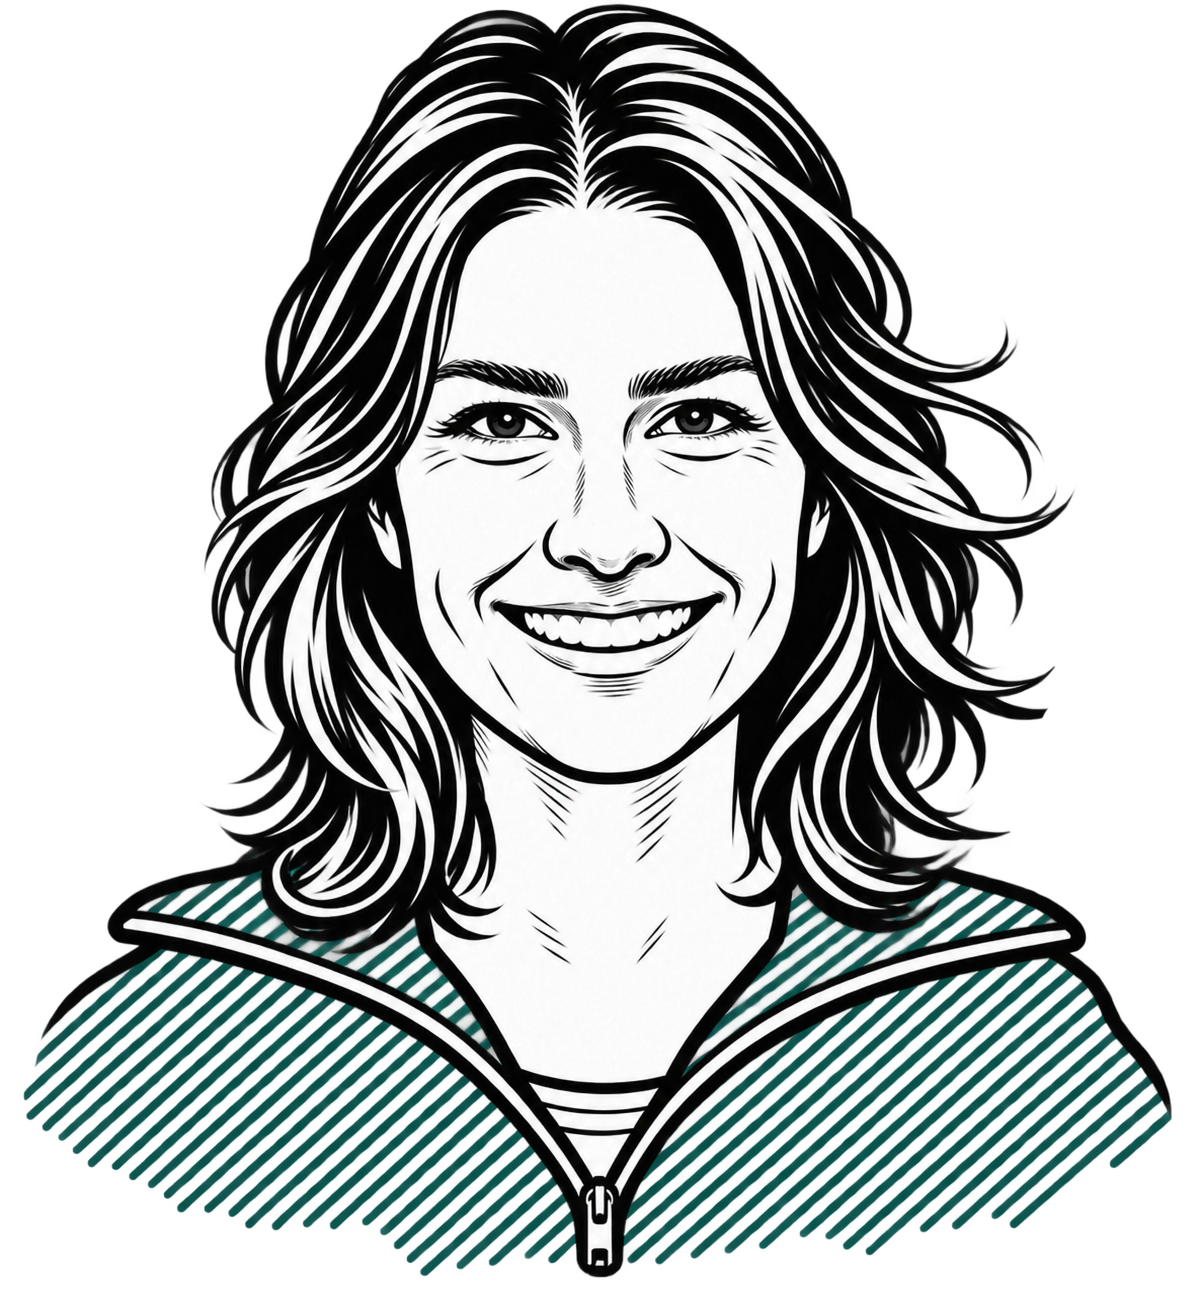
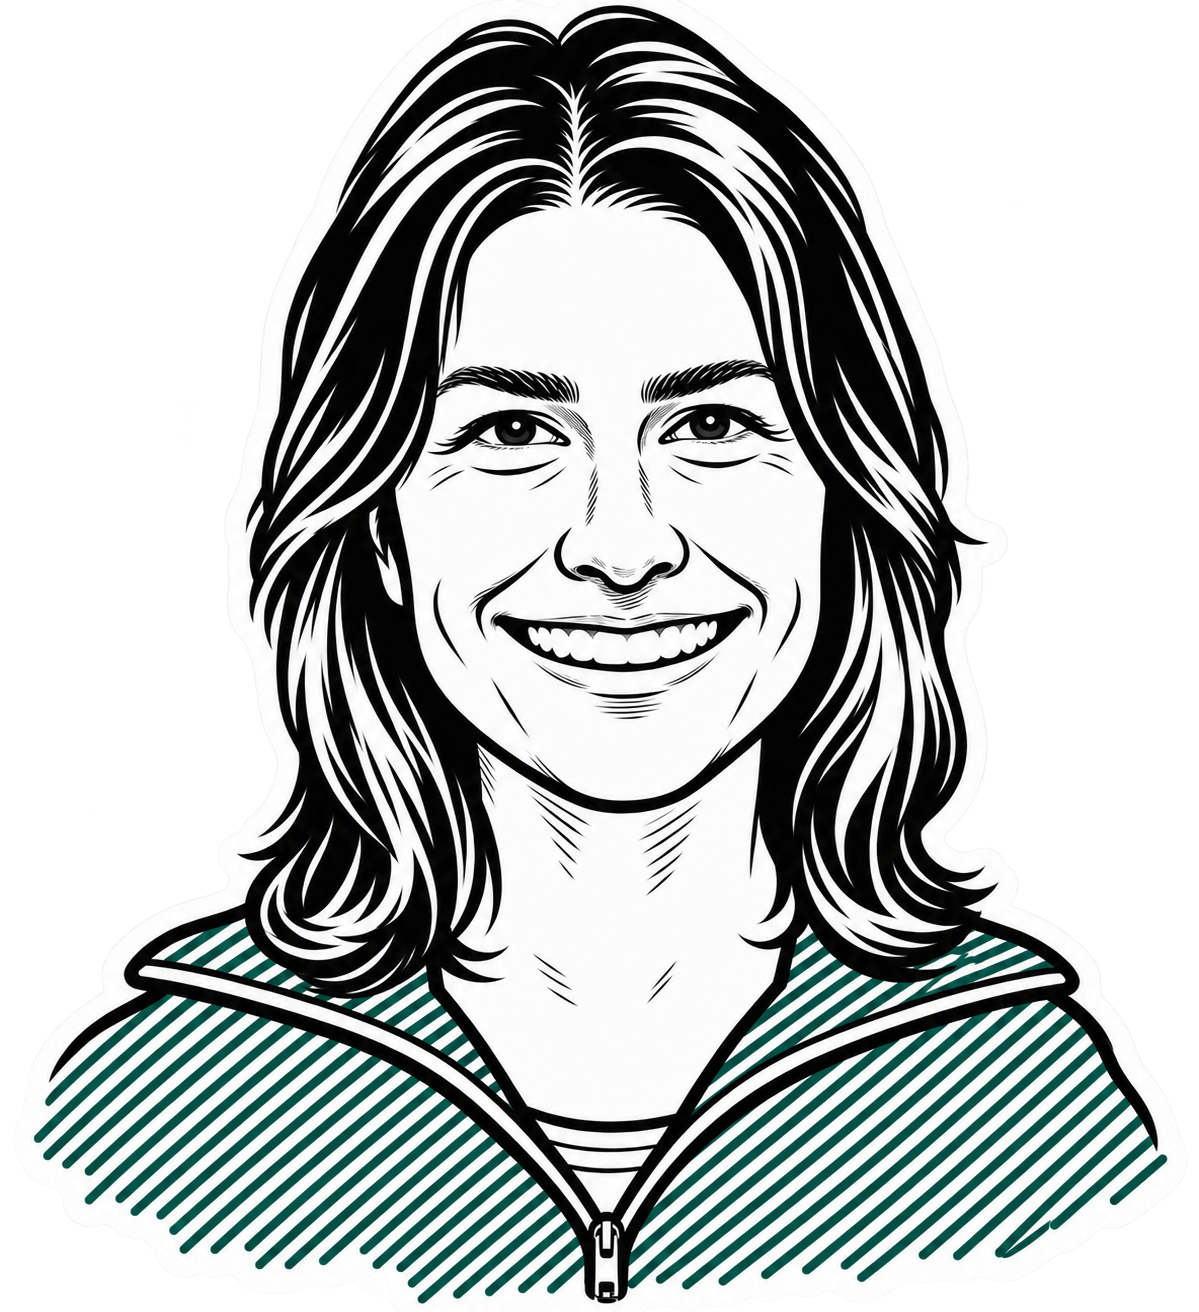
Refresh t4 hover portrait and smooth fine sketch edges

Changed region(s): [[0.0, 0.0, 0.9875, 1.0]]

diff --git a/MSC-v2/css/team.css b/MSC-v2/css/team.css
@@ -31,6 +31,9 @@
   height: 100%;
   max-width: none;
   object-fit: cover;
+  image-rendering: auto;
+  /* Subpixel edge smoothing keeps fine sketch lines from looking brittle. */
+  filter: blur(0.2px);
   pointer-events: none;
   user-select: none;
 }
@@ -39,7 +42,7 @@
 
 /* A 10% white blend changes RGB only, leaving the PNG alpha untouched. */
 .msc-team-composite.has-active .msc-team-member:not(.is-active) img {
-  filter: url("#msc-team-muted");
+  filter: url("#msc-team-muted") blur(0.2px);
 }
 .msc-team-member.is-active { translate: 0 -3px; }
 .msc-team-hover { opacity: 0; }
